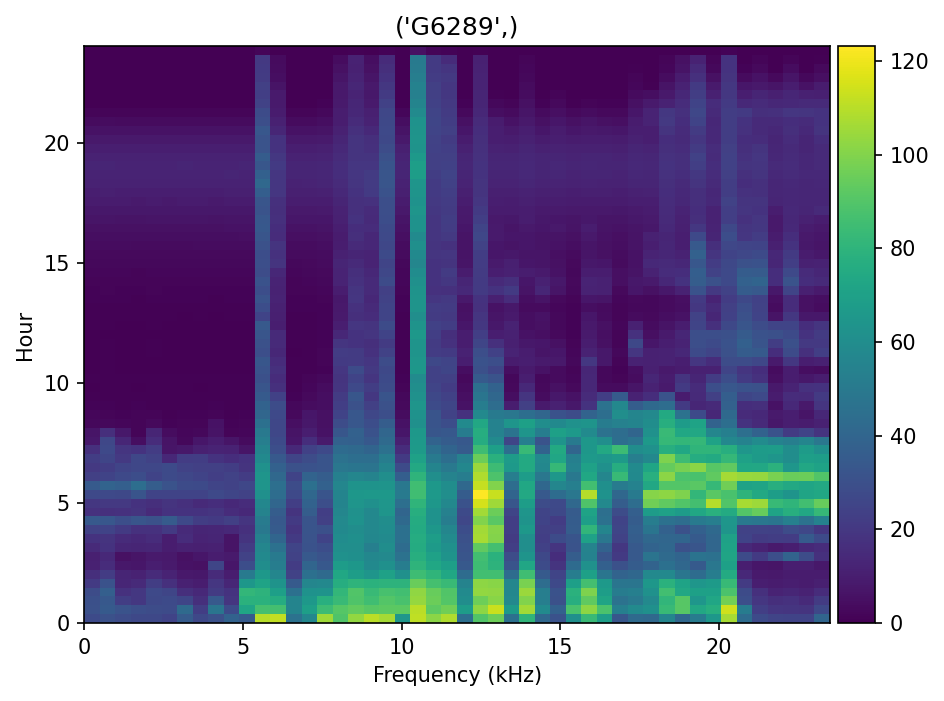
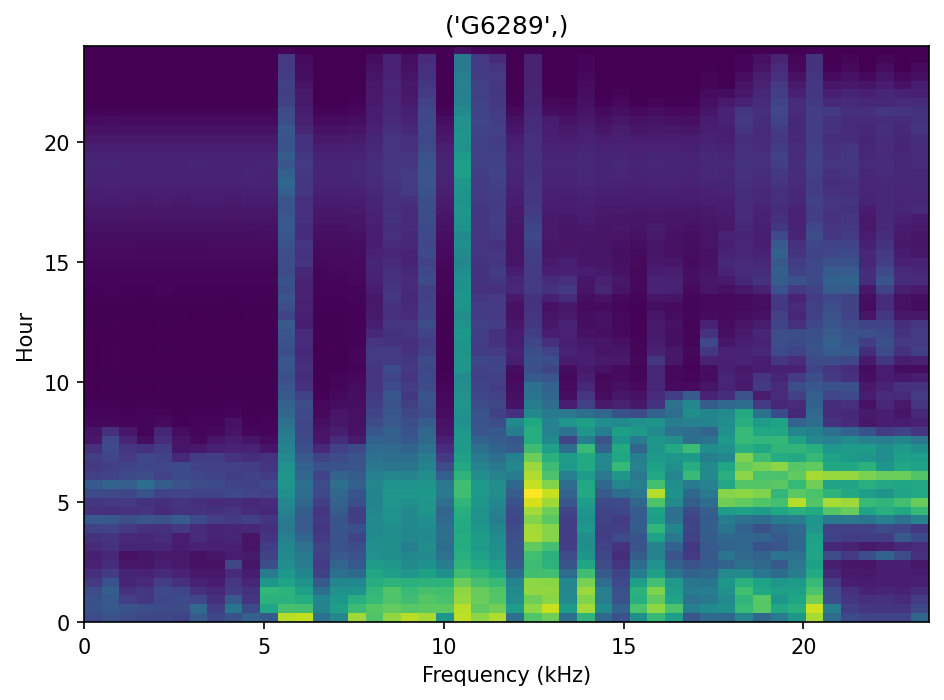
ready to add other aplications

diff --git a/funcs/analyzis.py b/funcs/analyzis.py
@@ -117,6 +117,7 @@ class Analyzer:
         Ls = len(group_site)
         k = 0
         ind_sites = []
+
         for site, data_site in group_site:
             print('site: ' + str(site) + ' # ' + str(k + 1) + ' of ' + str(Ls) + ' sites')
             group_day = data_site.groupby(['day'])
@@ -312,20 +313,22 @@ class Analyzer:
             mask = Stt_db > 0
             Sm = Stt_db * mask
             Sd = downscale_local_mean(Sm, (8, 1))
-            plt.figure()
-            plt.ylabel('Hour')
-            plt.xlabel('Frequency (kHz)')
-            plt.title(site)
-            imshow(Sd, aspect='auto', origin='lower', extent=[tn[0], tn[len(tn) - 1], 0, fn[-1] / 1000])
+            # Create a dedicated figure per site to avoid reuse
+            fig_site, ax_site = plt.subplots()
+            ax_site.set_ylabel('Hour')
+            ax_site.set_xlabel('Frequency (kHz)')
+            ax_site.set_title(str(site))
+            ax_site.imshow(Sd, aspect='auto', origin='lower', extent=[tn[0], tn[len(tn) - 1], 0, fn[-1] / 1000])
+            fig_site.tight_layout()
             # Save figure per site and render immediately
-            fig_site = plt.gcf()
             safe_site = ''.join(c if (c.isalnum() or c in '._- ') else '_' for c in str(site))
             fig_site.savefig(f"site_print_{safe_site}.png", dpi=150, bbox_inches='tight')
             Ssites[:, :, k] = Sd
             X[k, :] = np.ravel(Sd, order='C')
             sites_ind.append(site)
+            fig_site.canvas.draw_idle()
             plt.show(block=False)
-            plt.pause(0.001)
+            plt.pause(0.05)
             k = k + 1
             print('progress: ' + str(k) + ' of ' + str(Ls))
 
@@ -333,11 +336,11 @@ class Analyzer:
         metric = True
         dist_matrix = dist_euclid
         y = np.transpose(sites_ind)
-
         mds = MDS(metric=metric, dissimilarity='precomputed', random_state=0)
         pts = mds.fit_transform(dist_matrix)
-        plt.figure()
-        fig2 = plt.figure(1, (15, 6))
+
+        # Create a new figure for the MDS scatter (do not reuse figure 1)
+        fig2 = plt.figure(figsize=(15, 6))
         ax2 = fig2.add_subplot()
         plt.scatter(pts[:, 0], pts[:, 1])
         for x, ind in zip(X, range(pts.shape[0])):
@@ -347,28 +350,10 @@ class Analyzer:
             j = pts[ind, 1]
             ab = AnnotationBbox(imagebox, (i, j), frameon=False)
             ax2.add_artist(ab)
-        plt.title('Metric MDS with Euclidean')
-        plt.ylabel('NMDSy')
-        plt.xlabel('NMDSx')
-        plt.show(block=False)
 
-        plt.figure(1, (15, 6))
         sns.scatterplot(x=pts[:, 0], y=pts[:, 1], hue=sites_ind, palette='pastel')
         plt.title('Metric MDS with Euclidean')
         plt.ylabel('NMDSy')
         plt.xlabel('NMDSx')
         plt.show(block=False)
-        return (X, y, pts,Ssites)
-
-# Optional module-level aliases for compatibility
-longwave = Analyzer.longwave
-shortwave = Analyzer.shortwave
-rois_spec = Analyzer.rois_spec
-ind_batch = Analyzer.ind_batch
-ind_per_day = Analyzer.ind_per_day
-compute_acoustic_indices = Analyzer.compute_acoustic_indices
-plot_acoustic_indices = Analyzer.plot_acoustic_indices
-spl_batch = Analyzer.spl_batch
-plot_spl = Analyzer.plot_spl
-ac_print = Analyzer.ac_print
-        
+        return (X, y, pts, Ssites)

diff --git a/maad_gui.py b/maad_gui.py
@@ -23,7 +23,7 @@ import pandas as pd
 df=obj.metadata(pd.DataFrame(),'_','_','_')
 w=obj.widget('ch_rec','flims','txt','tlen','db','bstd','bper')
 p=obj.path('_','_')
-data=obj.data('wav','wavfs',pd.DataFrame(),pd.DataFrame())
+data=obj.data('wav','wavfs',pd.DataFrame(),pd.DataFrame(),[])
 flag=obj.flag('enter','load')
 S=obj.spec('_','_','_','_')
 
@@ -106,7 +106,7 @@ def rois_gui():
                                                                fmaxe,'_',data.wavfs,db,bstd,bp)
             #analyzis.rois_spec(data,w.flims,ch_rec,w.db)
             print('Inicio de cálculo de regiones (ROIs)')
-            _rois, _im_rois = analyzis.rois_spec(data,w.flims,ch_rec,w.db,w.bstd,w.bper) 
+            _rois, _im_rois = analyze.rois_spec(data,w.flims,ch_rec,w.db,w.bstd,w.bper) 
             
         else:
             print('Cargue el audio primero')
@@ -121,7 +121,7 @@ def one_day_spec():
     if flag.load=='file':
         w.flims, _ ,w.db, _ , _ , _ = obj.get_info_widgets(ch_rec,fmine,
                                                            fmaxe,'_',data.wavfs,db,'_','_')
-        analyzis.shortwave(data.wav,data.wavfs,w.flims,w.db) 
+        analyze.shortwave(data.wav,data.wavfs,w.flims,w.db) 
     
     elif flag.load=='folder':
         w.flims,w.samp_len,w.db, _ , _,ch =obj.get_info_widgets(ch_rec,fmine,fmaxe,tlene,df.fs,db,'_','_')
@@ -148,7 +148,7 @@ def calculate_spl():
     
     
 def calculate_acoustic_print():    
-    X, _y, nmds, matrixAcousticPrint = analyzis.ac_print(df.md)  
+    X, _y, nmds, matrixAcousticPrint = analyze.ac_print(df.md)  
     data.csv_summary['nmds']=nmds.tolist()
     data.csv_summary['ac_print']=X.tolist()
     data.npy_matrixAcousticPrint=matrixAcousticPrint
